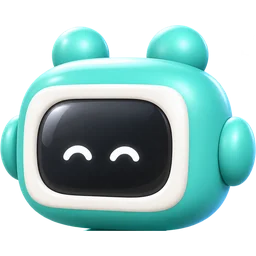
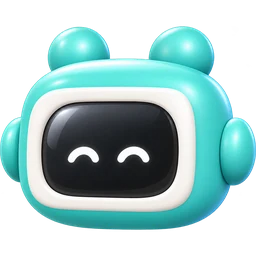
챗봇 머리 아이콘을 따로 그린 머리 그림(heads/*-happy-head.png)으로 교체 — 전신에서 잘라 쓰던 것이 잘려 보였음

diff --git a/2026-09-09-team-package-v0/app/web/src/components/char_images.js b/2026-09-09-team-package-v0/app/web/src/components/char_images.js
@@ -1,5 +1,5 @@
 // 챗봇·도움말 버튼이 쓰는 캐릭터 그림 — 한 곳에서만 정한다.
-// 원본: handoff/characters-3d-v2-20261027/assets/*.png(1254px 투명 PNG) → 512px webp, 머리(-head)는 위쪽(매칭이 64%·검토미 66%·예측이 70% — 안테나 길이가 달라서)을 잘라 256px.
+// 원본: handoff/characters-3d-v2-20261027/assets/*.png(1254px 투명 PNG) → 512px webp, 머리(-head)는 heads/*-happy-head.png(머리만 따로 그린 것) → 256px.
 // 그림을 바꾸려면 assets/characters/ 의 webp 를 «같은 이름»으로 갈아 끼우면 된다
 // (Vite 가 빌드 때 파일 내용 해시를 이름에 붙이므로 /assets 영구 캐시에도 새 그림이 바로 보인다).
 import mt from "../assets/characters/mt.webp"
